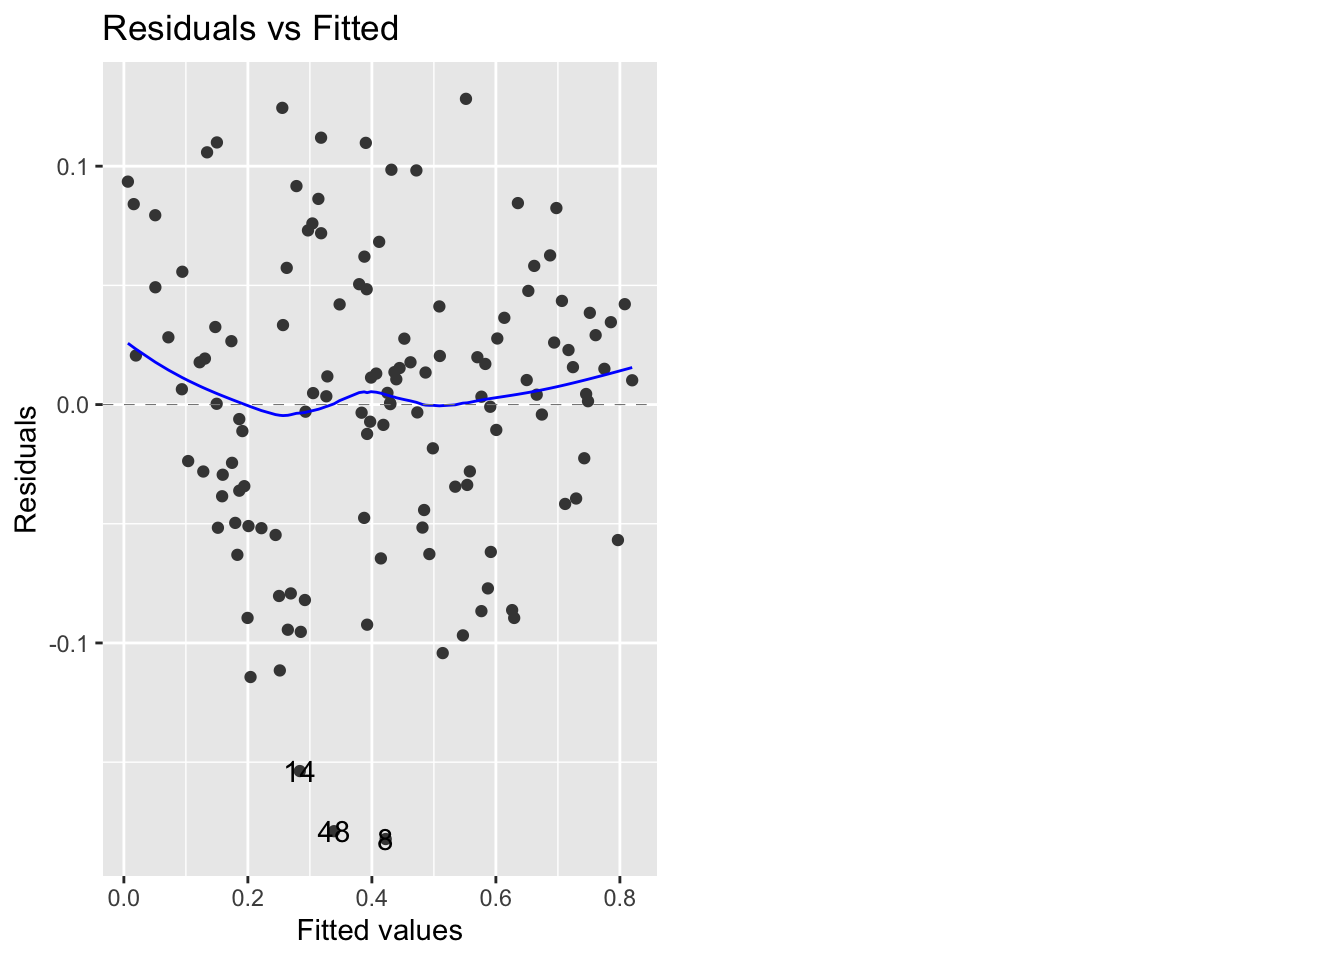
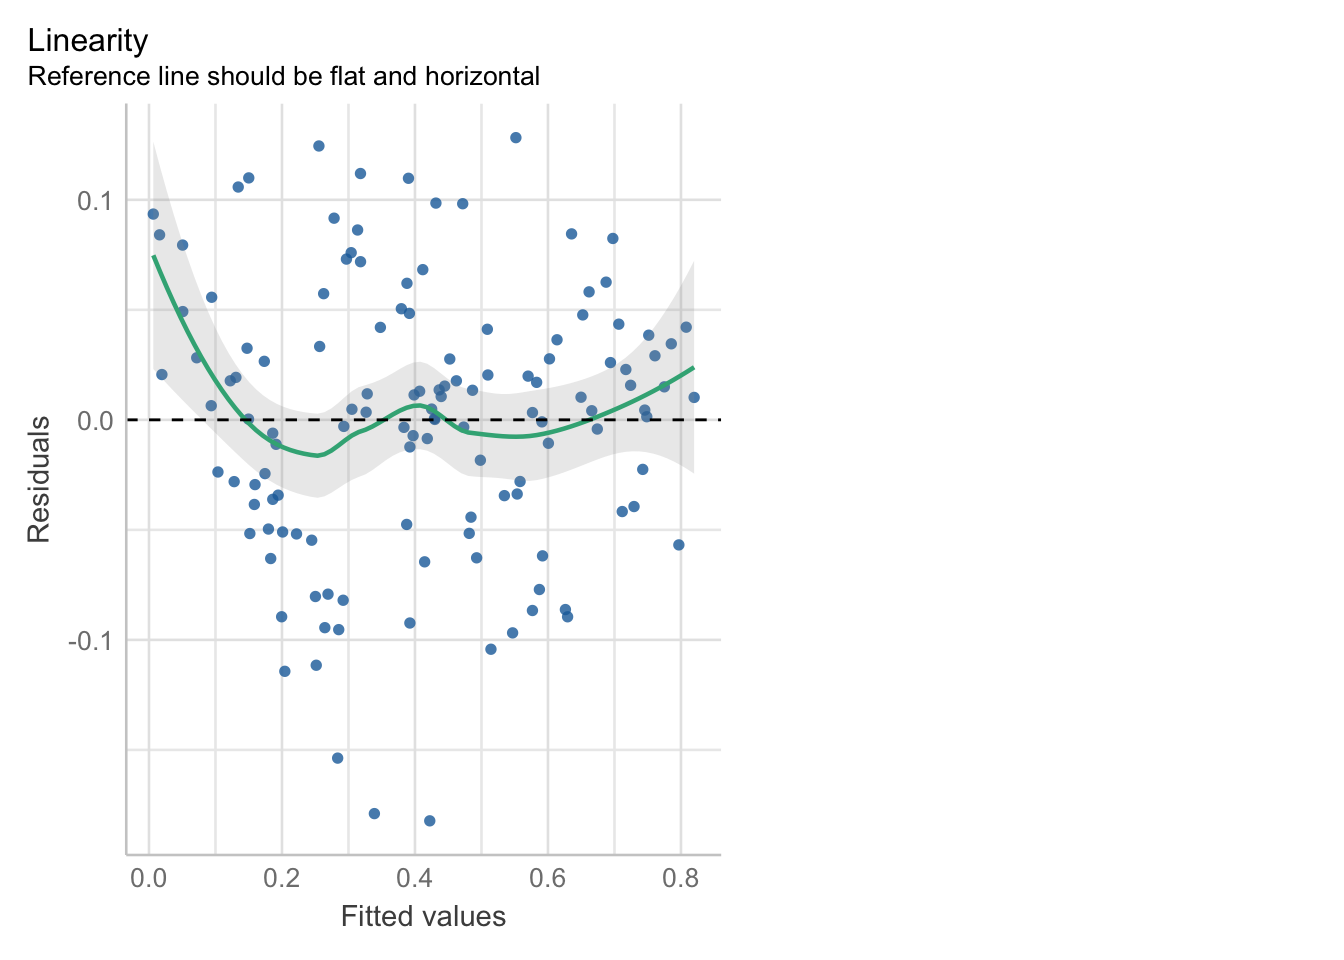
V1

Changed region(s): [[0.0, 0.0, 0.5312, 1.0]]

diff --git a/pd2.html b/pd2.html
@@ -13,7 +13,7 @@
 
 <title>Sesión 2</title>
 
-<script src="site_libs/header-attrs-2.20/header-attrs.js"></script>
+<script src="site_libs/header-attrs-2.26/header-attrs.js"></script>
 <script src="site_libs/jquery-3.6.0/jquery-3.6.0.min.js"></script>
 <meta name="viewport" content="width=device-width, initial-scale=1" />
 <link href="site_libs/bootstrap-3.3.5/css/simplex.min.css" rel="stylesheet" />
@@ -29,13 +29,13 @@
        h6 {font-size: 12px;}
        code {color: inherit; background-color: rgba(0, 0, 0, 0.04);}
        pre:not([class]) { background-color: white }</style>
-<script src="site_libs/jqueryui-1.11.4/jquery-ui.min.js"></script>
+<script src="site_libs/jqueryui-1.13.2/jquery-ui.min.js"></script>
 <link href="site_libs/tocify-1.9.1/jquery.tocify.css" rel="stylesheet" />
 <script src="site_libs/tocify-1.9.1/jquery.tocify.js"></script>
 <script src="site_libs/navigation-1.1/tabsets.js"></script>
 <script src="site_libs/navigation-1.1/codefolding.js"></script>
-<link href="site_libs/font-awesome-5.1.0/css/all.css" rel="stylesheet" />
-<link href="site_libs/font-awesome-5.1.0/css/v4-shims.css" rel="stylesheet" />
+<link href="site_libs/font-awesome-6.4.2/css/all.min.css" rel="stylesheet" />
+<link href="site_libs/font-awesome-6.4.2/css/v4-shims.min.css" rel="stylesheet" />
 
 <style type="text/css">
   code{white-space: pre-wrap;}
@@ -439,39 +439,6 @@ div.tocify {
   <a href="pd2.html">Sesión 2</a>
 </li>
 <li>
-  <a href="TidySup_Revancha_20232.html">Revancha</a>
-</li>
-<li>
-  <a href="pd3.html">Sesión 3</a>
-</li>
-<li>
-  <a href="pd3_v2.html">Sesión 3 v2.0</a>
-</li>
-<li>
-  <a href="pd4.html">Sesión 4</a>
-</li>
-<li>
-  <a href="pd5.html">Sesión 5</a>
-</li>
-<li>
-  <a href="Repaso.html">Repaso</a>
-</li>
-<li>
-  <a href="pd6.html">Sesión 6</a>
-</li>
-<li>
-  <a href="Full_Factor.html">Solución - ejercicio clase</a>
-</li>
-<li>
-  <a href="AFC.html">Sesión 7</a>
-</li>
-<li>
-  <a href="pd8.html">Sesión 8</a>
-</li>
-<li>
-  <a href="pd9.html">Sesión 9</a>
-</li>
-<li>
   <a href="https://karinaalc.github.io/Estadistica-2/">
     <span class="fab fa-github"></span>
      
@@ -694,7 +661,7 @@ Telecommunicacion_Infrastructura + ProcesoElectoral</p></li>
 ## Multiple R-squared:  0.9213, Adjusted R-squared:  0.9188 
 ## F-statistic: 363.1 on 4 and 124 DF,  p-value: &lt; 2.2e-16</code></pre>
 <p>Seguimos nuestro flujograma para evaluar el modelo:</p>
-<ol style="list-style-type: decimal">
+<ol style="list-style-type: lower-alpha">
 <li><strong>Nos preguntamos si el modelo es válido:</strong></li>
 </ol>
 <ul>
@@ -702,7 +669,7 @@ Telecommunicacion_Infrastructura + ProcesoElectoral</p></li>
 nula, lo cual probaría que nuestro modelo sí funciona.</li>
 <li>Al tener un p-value de 2.2e-1-16 nuestro modelo sí funciona.</li>
 </ul>
-<ol start="2" style="list-style-type: decimal">
+<ol start="2" style="list-style-type: lower-alpha">
 <li><strong>¿Qué tanto explica el modelo?</strong></li>
 </ol>
 <ul>
@@ -712,7 +679,7 @@ nula, lo cual probaría que nuestro modelo sí funciona.</li>
 variabilidad de mi dependiente, esto es bueno, pero quizá podría ser
 mejor 😯</p></li>
 </ul>
-<ol start="3" style="list-style-type: decimal">
+<ol start="3" style="list-style-type: lower-alpha">
 <li><strong>¿Las variables independientes aportan al
 modelo?</strong></li>
 </ol>
@@ -722,7 +689,7 @@ modelo?</strong></li>
 sean menores que 0.05.</p></li>
 <li><p>Vemos que todas nuestras variables cumplen ✅</p></li>
 </ul>
-<ol start="4" style="list-style-type: decimal">
+<ol start="4" style="list-style-type: lower-alpha">
 <li><strong>Identificamos los coeficientes</strong></li>
 </ol>
 <ul>
@@ -760,18 +727,14 @@ el valor esperado de la variable dependiente son aditivos. Si este
 supuesto no se cumple significaría que posiblemente existan variables
 que no aporten al modelo o que se trate de una relación no lineal.</p>
 <p><strong>Cómo detectarlo</strong></p>
-<p>OPCIÓN 1: Exploración gráfica: Plot de valores residuales frente a
-valores predichos.</p>
-<p>OPCIÓN 2: Calculando la correlación bivariada de cada independiente
-con la dependiente.</p>
-<p><strong>Código e interpretación</strong></p>
+<p>Exploración gráfica: Plot de valores residuales frente a valores
+predichos.</p>
+<p><strong>Código</strong></p>
+<p>La línea verde debería de estar lo más cercana a la línea
+punteada.</p>
 <div class="sourceCode" id="cb12"><pre class="sourceCode r"><code class="sourceCode r"><span id="cb12-1"><a href="#cb12-1" tabindex="-1"></a><span class="co">#Exploración gráfica</span></span>
-<span id="cb12-2"><a href="#cb12-2" tabindex="-1"></a><span class="fu">autoplot</span>(modelo1,<span class="dv">1</span>)</span></code></pre></div>
-<p>Usando el código plot, la línea roja debería de estar lo más cercana
-a la línea punteada. De acuerdo al resultado, el gráfico aún nos
-generaría suspicacias. En tanto, dado que la línea roja obedece a los
-puntos, éstos deberían distribuirse alrededor de una línea horizontal,
-con una varianza aproximadamente constante.</p>
+<span id="cb12-2"><a href="#cb12-2" tabindex="-1"></a><span class="fu">check_model</span>(modelo1,<span class="at">check =</span><span class="st">&quot;linearity&quot;</span>)</span></code></pre></div>
+<p><img src="pd2_files/figure-html/unnamed-chunk-13-1.png" width="672" /></p>
 </div>
 <div id="normalidad-de-residuos-el-problema-es-la-no-normalidad"
 class="section level3">
@@ -782,18 +745,17 @@ normalidad)</strong></h3>
 del valor observado menos el valor pronosticado (residuos) siguen una
 distribución normal, esto es importante porque si es que no se cumple no
 se podrían aplicar las pruebas globales del modelo.</p>
-<p><strong>Cómo detectarlo</strong></p>
-<p>Exploración gráfica: QQ plot de residuos Pruebas de normalidad a los
-residuos. Normalmente bastaría con la prueba de Shapiro Wilk, pero
-también se pueden probar otros como Lillieford, Kolmogorov (no es muy
-exigente), entre otros.</p>
+<p><strong>¿Cómo detectarlo?</strong></p>
+<p>Exploración gráfica y pruebas de normalidad a los residuos.</p>
+<p><strong>Si usamos prueba de normalidad:</strong> aplicamos la prueba
+de Shapiro a los residuos del modelo si estos son menores a 50 casos y
+Kolmogorov a aquellos mayores a 50 casos.</p>
 <p><strong>Código e interpretación</strong></p>
 <p>Si usamos sólo gráfico</p>
-<div class="sourceCode" id="cb13"><pre class="sourceCode r"><code class="sourceCode r"><span id="cb13-1"><a href="#cb13-1" tabindex="-1"></a><span class="fu">autoplot</span>(modelo1, <span class="dv">2</span>) </span></code></pre></div>
+<div class="sourceCode" id="cb13"><pre class="sourceCode r"><code class="sourceCode r"><span id="cb13-1"><a href="#cb13-1" tabindex="-1"></a><span class="co">#Exploración gráfica</span></span>
+<span id="cb13-2"><a href="#cb13-2" tabindex="-1"></a><span class="fu">check_model</span>(modelo1,<span class="at">check =</span><span class="st">&quot;qq&quot;</span>)</span></code></pre></div>
 <p>Todos los puntos deben estar sobre la diagonal. Los dos gráficos no
 son concluyentes, entonces procedo a realizar el test.</p>
-<p>Si usamos prueba de normalidad:aplicamos la prueba de Shapiro a los
-residuos del modelo</p>
 <div class="sourceCode" id="cb14"><pre class="sourceCode r"><code class="sourceCode r"><span id="cb14-1"><a href="#cb14-1" tabindex="-1"></a><span class="fu">shapiro.test</span>(modelo1<span class="sc">$</span>resid)</span></code></pre></div>
 <pre><code>## 
 ##  Shapiro-Wilk normality test
@@ -810,7 +772,7 @@ frente a un caso de distribución normal de los residuos.</p>
 </div>
 <div id="homocedasticidad-el-problema-es-la-heterocedasticidad"
 class="section level3">
-<h3><strong>3- Homocedasticidad (el problema es la
+<h3><strong>3. Homocedasticidad (el problema es la
 heterocedasticidad)</strong></h3>
 <p><strong>Descripción</strong></p>
 <p>La homocedasticidad (también conocido como homogeneidad en la
@@ -821,19 +783,18 @@ heterocedasticidad.</p>
 <p><strong>Cómo detectarlo</strong></p>
 <p>OPCIÓN 1: Exploración gráfica: diagrama de residuos standarizados y
 valores predichos.</p>
-<p>OPCIÓN 2: Con el Score Test for Non-Constant Error Variance, también
-llamado Test Breusch Pagan. Evalúa si la varianza del error cambia con
-el nivel de la variable respuesta (valores ajustados) o con una
-combinación lineal de predictores.</p>
-<p><strong>Código e interpretación</strong></p>
+<p><strong>Código</strong></p>
 <p>Si usamos el gráfico</p>
-<div class="sourceCode" id="cb16"><pre class="sourceCode r"><code class="sourceCode r"><span id="cb16-1"><a href="#cb16-1" tabindex="-1"></a><span class="fu">autoplot</span>(modelo1, <span class="dv">3</span>)</span></code></pre></div>
+<div class="sourceCode" id="cb16"><pre class="sourceCode r"><code class="sourceCode r"><span id="cb16-1"><a href="#cb16-1" tabindex="-1"></a><span class="fu">check_model</span>(modelo1, <span class="at">check=</span><span class="st">&quot;homogeneity&quot;</span>)</span></code></pre></div>
 <p>En el Gráfico la línea roja debe seguir una tendencia horizontal,
 esto representaría que la distribución de los puntos son uniformes. Al
 ver nuestro gráfico nos damos cuenta que la línea roja va hacia arriba,
 lo cual nos dice que el gráfico no es concluyente aún. Vamos al
 test.</p>
-<p>Si usamos el test de BP:</p>
+<p>OPCIÓN 2: Con el Score Test for Non-Constant Error Variance, también
+llamado Test Breusch Pagan. Evalúa si la varianza del error cambia con
+el nivel de la variable respuesta (valores ajustados) o con una
+combinación lineal de predictores.</p>
 <div class="sourceCode" id="cb17"><pre class="sourceCode r"><code class="sourceCode r"><span id="cb17-1"><a href="#cb17-1" tabindex="-1"></a><span class="fu">bptest</span>(modelo1)</span></code></pre></div>
 <pre><code>## 
 ##  studentized Breusch-Pagan test
@@ -867,23 +828,20 @@ resultados no encontramos multicolinealidad.</p>
 <ul>
 <li>Mayor a 10, grave problema de multicolinealidad.</li>
 </ul>
-<p><strong>Código e interpretación</strong></p>
-<div class="sourceCode" id="cb19"><pre class="sourceCode r"><code class="sourceCode r"><span id="cb19-1"><a href="#cb19-1" tabindex="-1"></a><span class="fu">vif</span>(modelo1)</span></code></pre></div>
-<pre><code>##                   Capital_Humano                      Policulture 
-##                         3.753040                         1.595470 
-## Telecommunicacion_Infrastructura                 ProcesoElectoral 
-##                         4.079774                         1.455717</code></pre>
-<p>Valores &gt; 5 indican presencia de multicolinealidad.</p>
+<p><strong>Código</strong></p>
+<div class="sourceCode" id="cb19"><pre class="sourceCode r"><code class="sourceCode r"><span id="cb19-1"><a href="#cb19-1" tabindex="-1"></a><span class="fu">check_model</span>(modelo1, <span class="at">check=</span><span class="st">&quot;vif&quot;</span>)</span></code></pre></div>
+</div>
+<div id="apalancamiento" class="section level3">
+<h3>5.<strong>Apalancamiento </strong></h3>
+<div class="sourceCode" id="cb20"><pre class="sourceCode r"><code class="sourceCode r"><span id="cb20-1"><a href="#cb20-1" tabindex="-1"></a><span class="fu">check_model</span>(modelo1, <span class="at">check=</span><span class="st">&quot;outliers&quot;</span>)</span></code></pre></div>
 </div>
 <div
 id="independencia-de-residuos-el-problema-es-que-existe-autocorrelación-en-los-residuos"
 class="section level3">
-<h3>5.- <strong>Independencia de residuos (el problema es que existe
+<h3>6.- <strong>Independencia de residuos (el problema es que existe
 autocorrelación en los residuos)</strong></h3>
 <p><strong>Descripción</strong></p>
-<p>Si los errores residuales <strong>no son independientes</strong>, es
-probable que demuestren algún tipo de patrón (que no siempre es obvio a
-simple vista).</p>
+<p>– insertar</p>
 <p><strong>Cómo detectarlo</strong></p>
 <p>Los puntos se deben acercar lo más posible a la línea oblicua del
 gráfico que representa la distribución normal.</p>
@@ -898,8 +856,8 @@ gráfico que representa la distribución normal.</p>
 entonces podemos afirmar que los residuos son independientes</strong> o
 que no están autocrrelacionados. El modelo <strong>sí</strong> pasa este
 supuesto.</p>
-<p><strong>Modelo 2</strong> ¿Es posible mejorar mi modelo1? Esta vez,
-realizamos una nueva regresión.</p>
+<p><strong>Modelo 2</strong> ¿Es posible mejorar mi modelo1? Realizamos
+una nueva regresión.</p>
 <div class="sourceCode" id="cb23"><pre class="sourceCode r"><code class="sourceCode r"><span id="cb23-1"><a href="#cb23-1" tabindex="-1"></a><span class="fu">names</span>(Egov)</span></code></pre></div>
 <pre><code>## [1] &quot;pais&quot;                             &quot;participaciónDigital&quot;            
 ## [3] &quot;Servicios_Online&quot;                 &quot;Capital_Humano&quot;                  
@@ -930,7 +888,7 @@ realizamos una nueva regresión.</p>
 ## Multiple R-squared:  0.8983, Adjusted R-squared:  0.8959 
 ## F-statistic: 368.1 on 3 and 125 DF,  p-value: &lt; 2.2e-16</code></pre>
 <p>Seguimos nuestro flujograma para evaluar el modelo:</p>
-<ol style="list-style-type: decimal">
+<ol style="list-style-type: lower-alpha">
 <li>Nos preguntamos si el modelo es válido:</li>
 </ol>
 <ul>
@@ -938,7 +896,7 @@ realizamos una nueva regresión.</p>
 nula, lo cual probaría que nuestro modelo sí funciona. -Al tener un
 p-value de 2.2e-16 nuestro modelo sí funciona.</li>
 </ul>
-<ol start="2" style="list-style-type: decimal">
+<ol start="2" style="list-style-type: lower-alpha">
 <li>¿Qué tanto explica el modelo? -Revisamos el R cuadrado que va de 0 a
 1 (0% a 100%) -En este caso mis variables (en conjunto) explican el
 89.8% de la variabilidad de mi dependiente, esto es bueno, pero quizá

diff --git a/site_libs/navigation-1.1/codefolding.js b/site_libs/navigation-1.1/codefolding.js
@@ -31,7 +31,7 @@ window.initializeCodeFolding = function(show) {
     $(this).detach().appendTo(div);
 
     // add a show code button right above
-    var showCodeText = $('<span>' + (showThis ? 'Hide' : 'Code') + '</span>');
+    var showCodeText = $('<span>' + (showThis ? 'Hide' : 'Show') + '</span>');
     var showCodeButton = $('<button type="button" class="btn btn-default btn-xs btn-secondary btn-sm code-folding-btn pull-right float-right"></button>');
     showCodeButton.append(showCodeText);
     showCodeButton
@@ -57,7 +57,7 @@ window.initializeCodeFolding = function(show) {
     //   * Change text
     //   * add a class for intermediate states styling
     div.on('hide.bs.collapse', function () {
-      showCodeText.text('Code');
+      showCodeText.text('Show');
       showCodeButton.addClass('btn-collapsing');
     });
     div.on('hidden.bs.collapse', function () {

diff --git a/site_libs/header-attrs-2.26/header-attrs.js b/site_libs/header-attrs-2.26/header-attrs.js
@@ -1,0 +1,12 @@
+// Pandoc 2.9 adds attributes on both header and div. We remove the former (to
+// be compatible with the behavior of Pandoc < 2.8).
+document.addEventListener('DOMContentLoaded', function(e) {
+  var hs = document.querySelectorAll("div.section[class*='level'] > :first-child");
+  var i, h, a;
+  for (i = 0; i < hs.length; i++) {
+    h = hs[i];
+    if (!/^h[1-6]$/i.test(h.tagName)) continue;  // it should be a header h1-h6
+    a = h.attributes;
+    while (a.length > 0) h.removeAttribute(a[0].name);
+  }
+});
